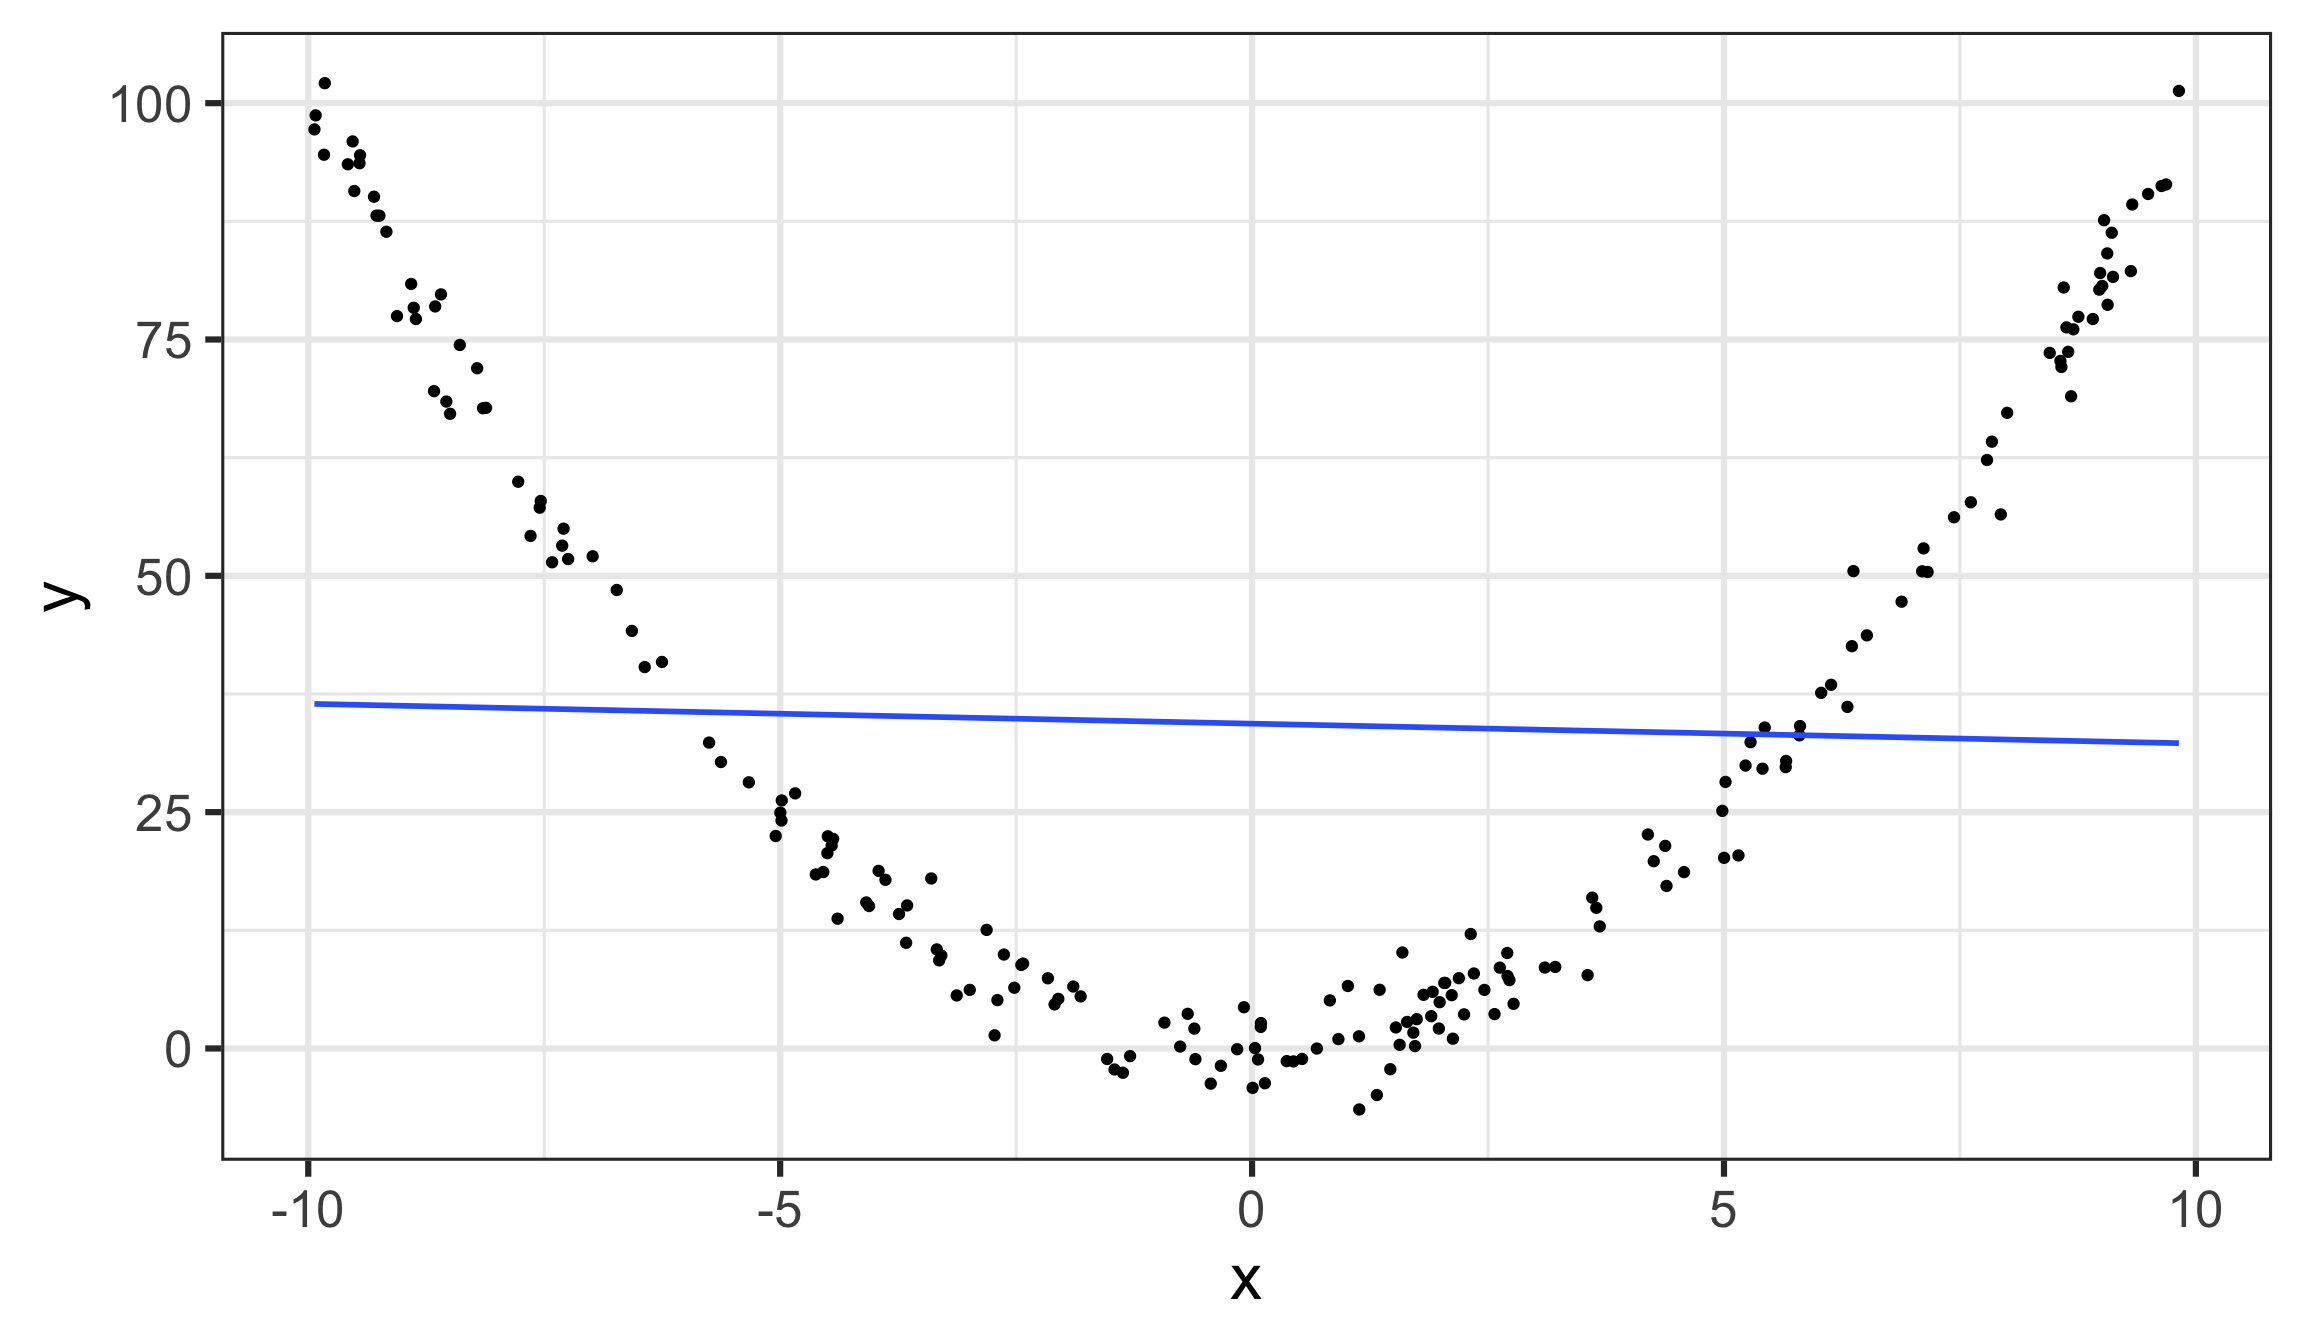
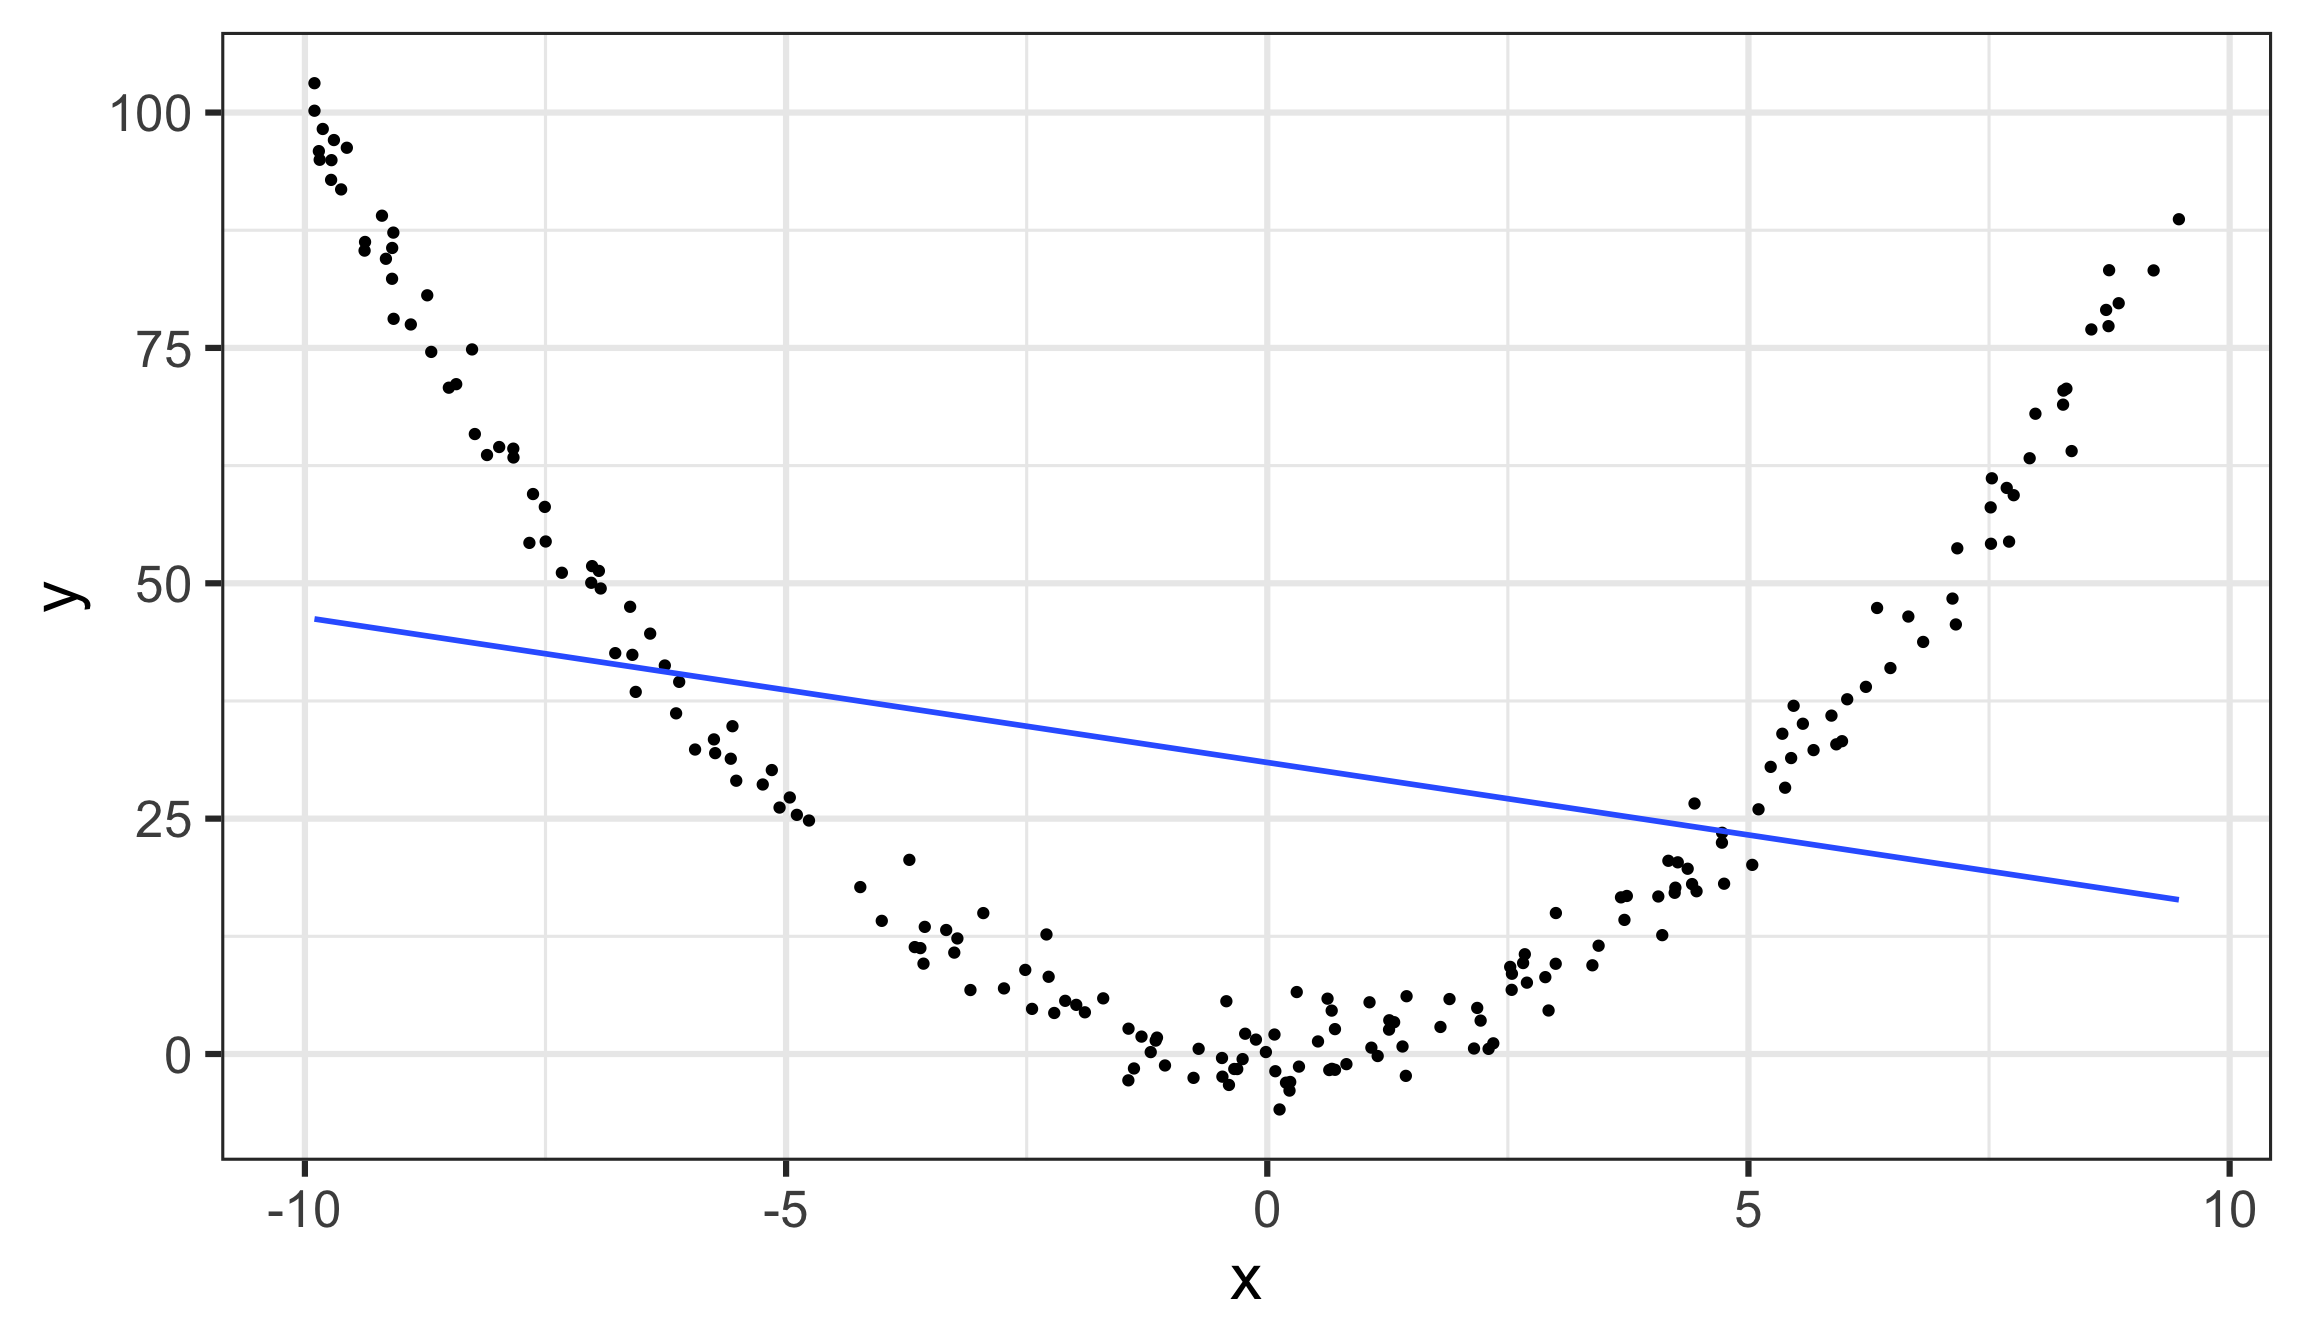
Built site for gh-pages

diff --git a/slides/slide6.html b/slides/slide6.html
@@ -393,7 +393,7 @@ Code for loading data
 
 </div>
 <script type="webr-1-contents">
[2 lines of base64/hex data omitted]
 </script>
 </div>
 </details>

diff --git a/index.html b/index.html
@@ -624,7 +624,7 @@ Modelling with categorical predictors
 </div>
 </a>
 </div>
-<div class="g-col-1" data-index="6" data-listing-date-sort="1739887200000" data-listing-file-modified-sort="1739505748590" data-listing-date-modified-sort="NaN" data-listing-reading-time-sort="12" data-listing-word-count-sort="2262">
+<div class="g-col-1" data-index="6" data-listing-date-sort="1739887200000" data-listing-file-modified-sort="1739506008432" data-listing-date-modified-sort="NaN" data-listing-reading-time-sort="12" data-listing-word-count-sort="2262">
 <a href="./slides/slide6.html" class="quarto-grid-link">
 <div class="quarto-grid-item card h-100 card-left">
 <p class="card-img-top">

diff --git a/slides/slide3.html b/slides/slide3.html
@@ -417,7 +417,7 @@ eyJhdHRyIjp7ImVjaG8iOmZhbHNlLCJlZGl0IjpmYWxzZSwiZXZhbCI6dHJ1ZSwiZmlnLWhlaWdodCI6
 </div>
 </div>
 </div>
-<p>Correlation coefficient: -0.0375725</p>
+<p>Correlation coefficient: -0.2800815</p>
 </div></div>
 </section>
 <section id="summary-statistics-can-be-misleading" class="slide level2">
